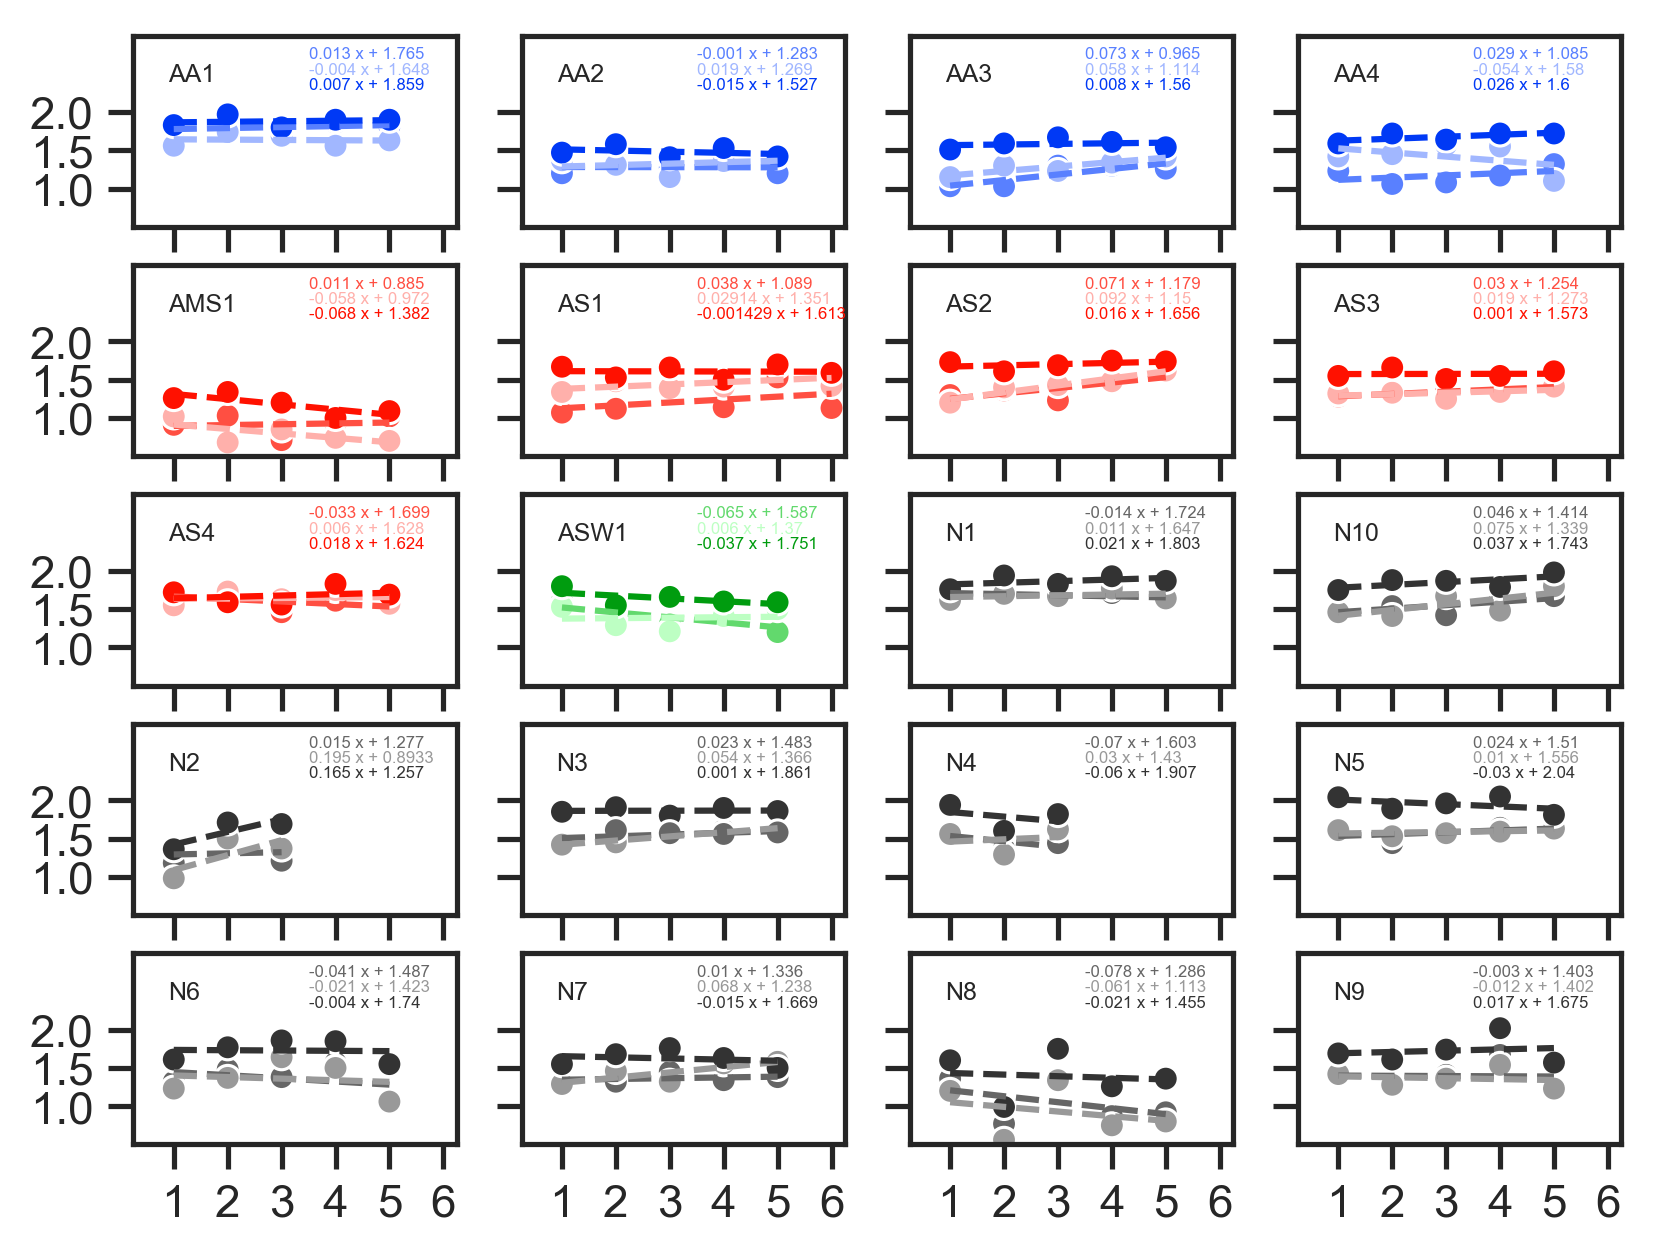
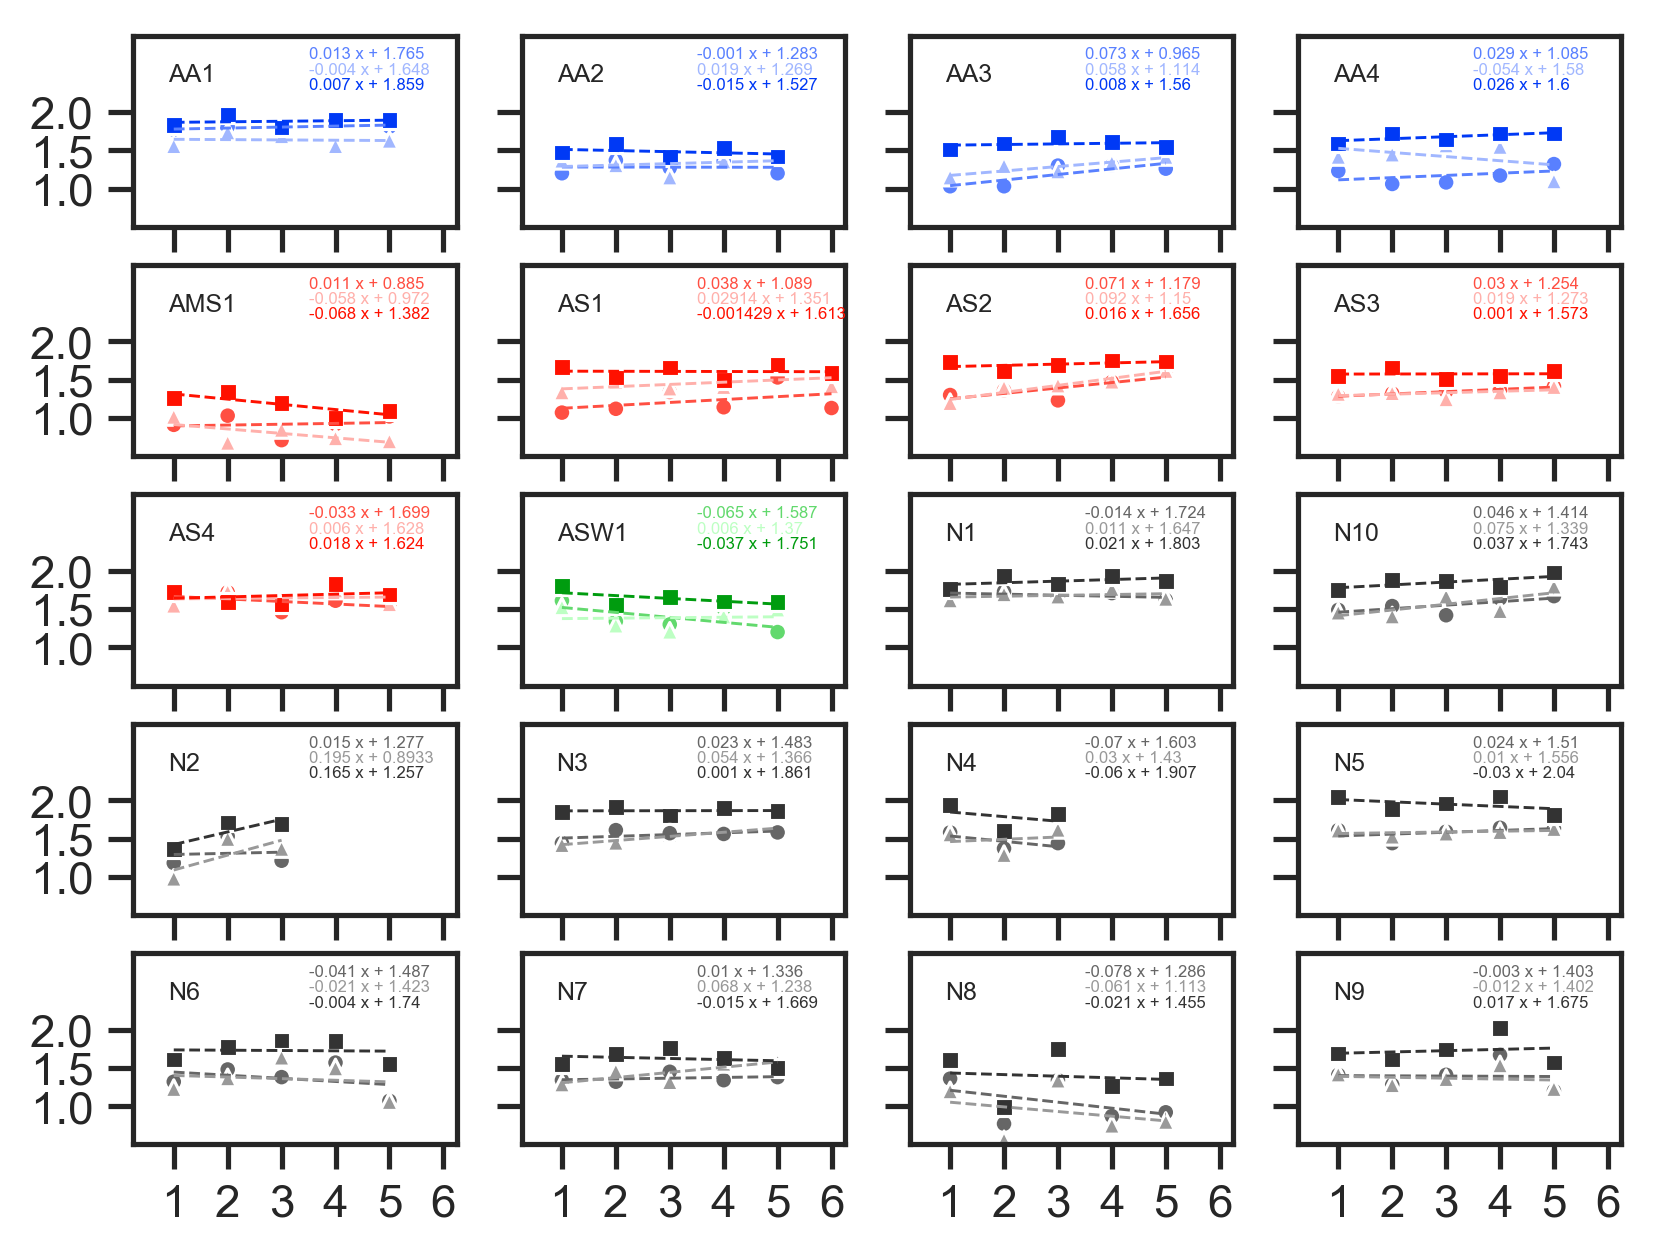
CS analysis- Made each eye a different symbol and highlighted non-dominant eye

diff --git a/analysis/cs_analysis.py b/analysis/cs_analysis.py
@@ -34,10 +34,13 @@ def getRegressionCoeff(data):
 
 # Plot variables
 plot_number = 1 # Start with first plot
-plot_colors = [['#ff4f42', '#ffb0ab', '#ff1100'], ['#5980ff', '#a1b7ff', '#0039f5'], ['#666666', '#999999', '#333333'], ['#62d96d', '#bdffc3', '#009c0f']]
+plot_colors = [['#ff4f42', '#ffb0ab', '#ff1100'], ['#5980ff', '#a1b7ff', '#0039f5'], ['#666666', '#999999', '#333333'], ['#62d96d', '#bdffc3', '#009c0f']] # Red, blue, grey, green
+plot_markers = ['o', '^', 's'] #OD, OS, OU
 
 for sub in subjects:
+    dominant_eye = []
     data = cs_data.loc[cs_data.id == sub]
+    dominant_eye = data.dominant.tolist()[0]
     y = getRegressionCoeff(data)
     x = data.test_num.unique().tolist()
 
@@ -52,12 +55,12 @@ for sub in subjects:
         plot_palette = plot_colors[2]
 
     ax = plt.subplot(5, 4, plot_number)
-    sns.scatterplot(x='test_num', y='AULCSF', hue='condition', data=data, palette=plot_palette)
+    sns.scatterplot(x='test_num', y='AULCSF', hue='condition', data=data, palette=plot_palette, markers=plot_markers, style='condition', size=14)
 
     # Plot regression
-    ax.plot(x, y[0](x), '--', color=plot_palette[0])
-    ax.plot(x, y[1](x), '--', color=plot_palette[1])
-    ax.plot(x, y[2](x), '--', color=plot_palette[2])
+    ax.plot(x, y[0](x), '--', color=plot_palette[0], linewidth=0.7)
+    ax.plot(x, y[1](x), '--', color=plot_palette[1], linewidth=0.7)
+    ax.plot(x, y[2](x), '--', color=plot_palette[2], linewidth=0.7)
 
     # Add slope to plot
     ax.text(3.5, 2.70, str(y[0]), fontsize=4, color=plot_palette[0])
@@ -71,6 +74,18 @@ for sub in subjects:
     plt.xlim(0.25, 6.25)
     plt.xticks([1, 2, 3, 4, 5, 6])
 
+    # Make non-dominant eye stand out
+    if dominant_eye == 'OD':
+        sns.scatterplot(x='test_num', y='AULCSF', data=data.loc[data.condition == 'OS'], markers=plot_markers[1],
+                        size=16, color='black')
+        ax.plot(x, y[1](x), '--', color='black', linewidth=0.7)
+    elif dominant_eye == 'OS':
+        sns.scatterplot(x='test_num', y='AULCSF', data=data.loc[data.condition == 'OD'], markers=plot_markers[0], size=16,
+                        color='black')
+        ax.plot(x, y[0](x), '--', color='black', linewidth=0.7)
+    elif dominant_eye == 'nan':
+        continue
+
     # Remove labels and legend
     ax.label_outer()
     ax.set_xlabel('')
@@ -80,4 +95,5 @@ for sub in subjects:
     plot_number = plot_number + 1
 
 name = "csf_all.png"
+plt.show()
 plt.savefig(fname=results_dir + name, bbox_inches='tight', format='png', dpi=300)
